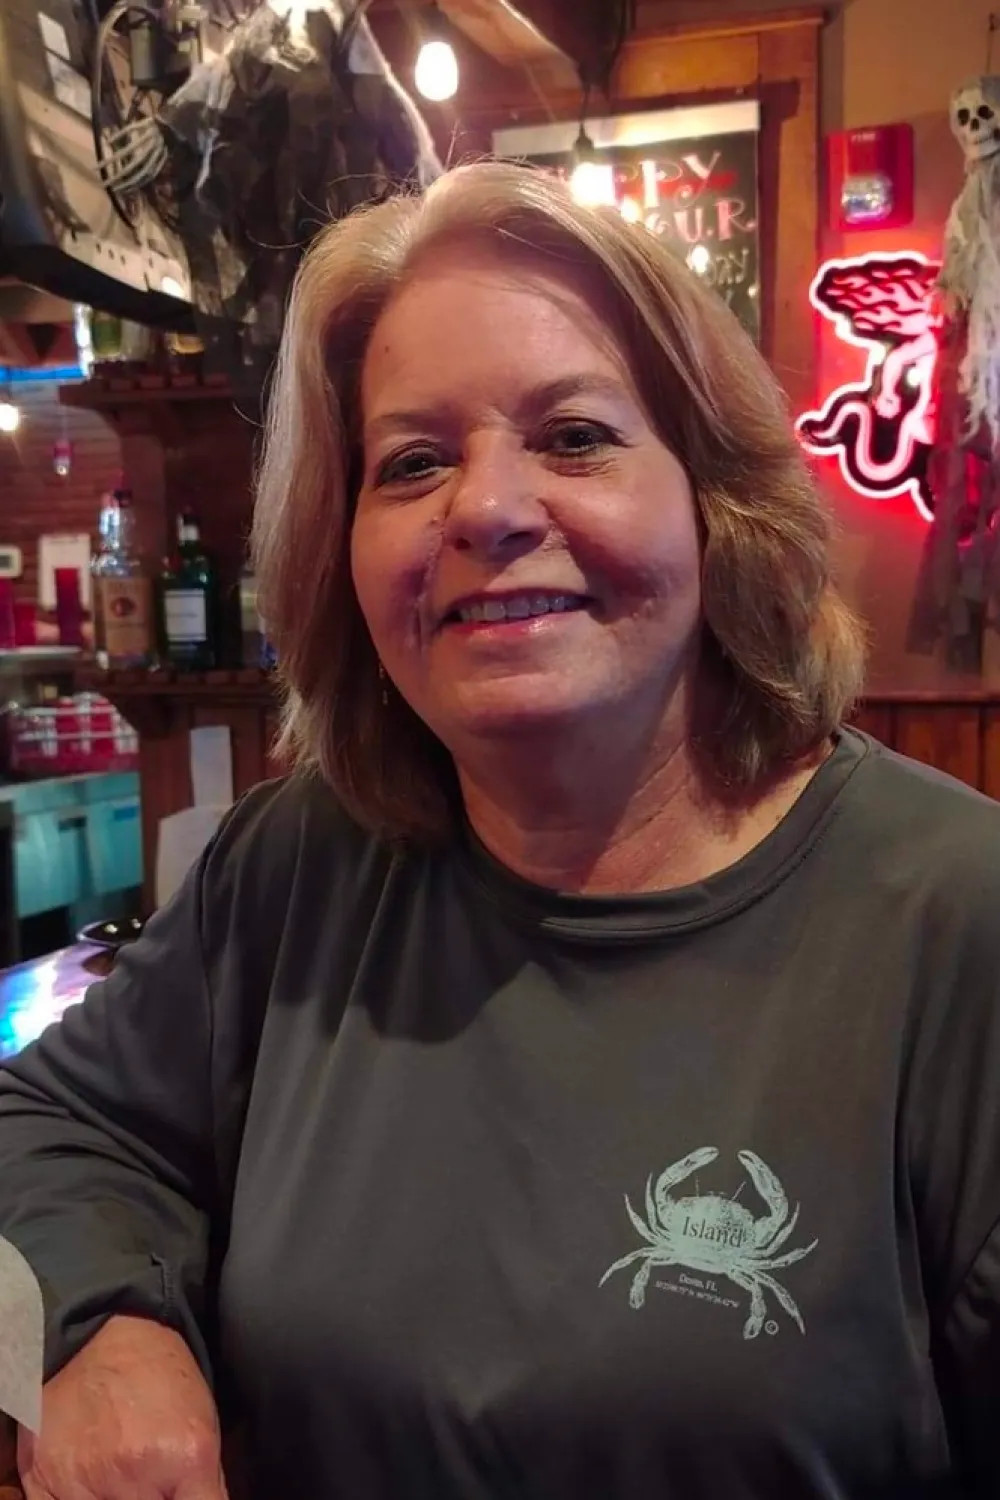
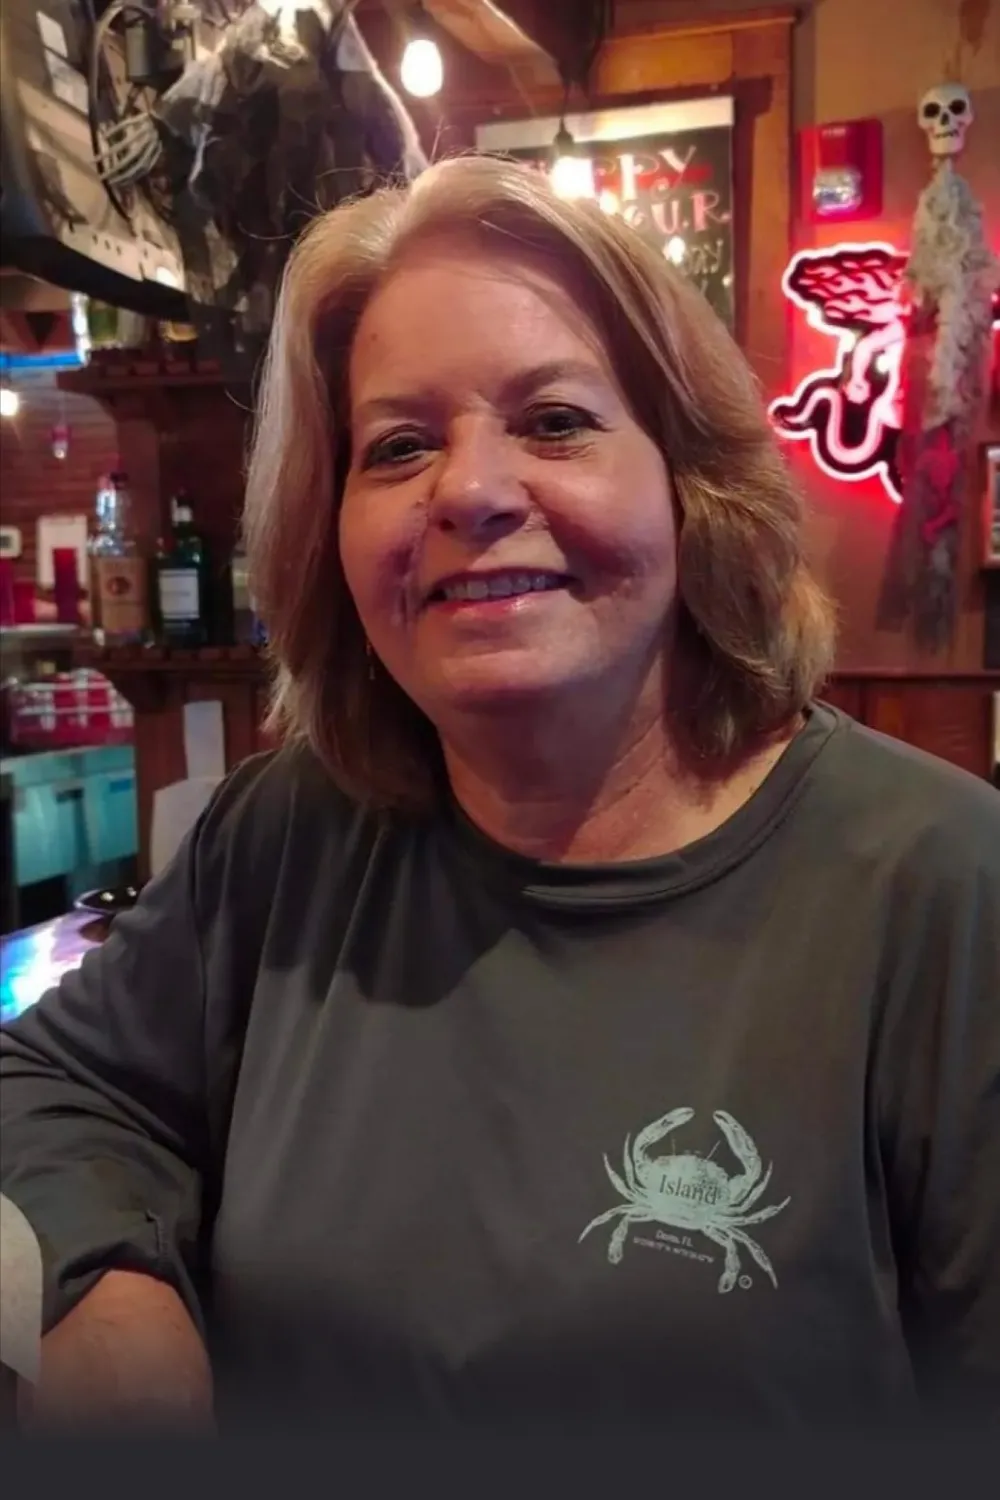
Tighten hero, ratings, faq copy and refresh Lisa portrait
Hero: rebuild the headline as four shorter lines (Get a free /
online store / and win a / $5,000 Grant.) and dial the size to
clamp(40px, 5.0vw, 64px) so it stays large but fits without
clipping. Stack the CTA and consultation link in a column with
both pinned to 358px width, and revert .cta-fine to the muted
#86868b gray.

Ratings: drop the Trustpilot card to match
sellvia/free-ecommerce-store-plus-amazon-package, refresh
Sitejabber to 924 reviews, Facebook to 516 reviews, and bump G2
from 4.7 to 4.8. Switch the desktop grid from four columns to
three and stack to a single column on mobile.

FAQ: trim the CTA blurb to "Chance to win a \$5,000 grant for
your business upgrade. Free 14-day trial." (drops the seven
done-for-you assets line).

Replace social/lisa.webp with the updated Hero/Lisa.webp upload.

diff --git a/index.html b/index.html
@@ -1461,7 +1461,7 @@ section { padding: 120px 24px; }
   max-width: var(--max);
   margin: 0 auto;
   display: grid;
-  grid-template-columns: repeat(4,1fr);
+  grid-template-columns: repeat(3,1fr);
   gap: 0;
   border-radius: 20px;
   overflow: hidden;
@@ -1481,9 +1481,8 @@ section { padding: 120px 24px; }
 .rat-score { font-size: 56px; font-weight: 700; color: #fff; letter-spacing: -0.03em; }
 .rat-count { font-size: 17px; color: rgba(255,255,255,0.4); margin-top: 8px; }
 @media(max-width:680px) {
-  .ratings-inner { grid-template-columns: 1fr 1fr; }
-  .rat-card:nth-child(3) { border-left: none; }
-  .rat-card:nth-child(n+3) { border-top: 1px solid rgba(255,255,255,0.08); }
+  .ratings-inner { grid-template-columns: 1fr; }
+  .rat-card + .rat-card { border-left: none; border-top: 1px solid rgba(255,255,255,0.08); }
 }
 
 /* ════ TESTIMONIALS ════ */
@@ -2415,8 +2414,8 @@ height="0" width="0" style="display:none;visibility:hidden"></iframe></noscript>
 .hero--devin-v2 .copy { color: white; padding-right: 20px; position: relative; }
 .hero--devin-v2 .copy h1 {
   font-family: var(--font-sans); font-weight: 700;
-  font-size: clamp(48px, 5.6vw, 76px);
-  letter-spacing: -0.04em; line-height: 1.02;
+  font-size: clamp(40px, 5.0vw, 64px);
+  letter-spacing: -0.04em; line-height: 1.05;
   margin: 0 0 28px; color: #fff; text-wrap: balance;
 }
 .hero--devin-v2 .copy h1 .blue { color: #fff; font-weight: 700; }
@@ -2445,13 +2444,13 @@ height="0" width="0" style="display:none;visibility:hidden"></iframe></noscript>
    .actions as a sibling — same pattern as the reference's hero-fine. */
 .hero--devin-v2 .actions {
   display: flex;
-  align-items: center;
-  gap: 26px;
-  /* No flex-wrap on desktop — the link sits to the right of the button on the same row */
+  flex-direction: column;
+  align-items: flex-start;
+  gap: 16px;
 }
 .hero--devin-v2 .cta-fine {
   font-size: 13px;
-  color: #ffffff;
+  color: #86868b;
   letter-spacing: -0.005em;
   margin: 20px 0 0;
   width: 358px;
@@ -2478,10 +2477,13 @@ height="0" width="0" style="display:none;visibility:hidden"></iframe></noscript>
 .hero--devin-v2 .cta-link {
   display: inline-flex;
   align-items: center;
+  justify-content: center;
   gap: 6px;
   padding: 0;
   background: none;
   border: none;
+  width: 358px;
+  max-width: 100%;
   font-family: var(--font-sans);
   font-size: 17px;
   font-weight: 500;
@@ -2626,8 +2628,10 @@ height="0" width="0" style="display:none;visibility:hidden"></iframe></noscript>
         <span class="limited-text">LIMITED TIME ·<br class="m-only-br"> SMALL BUSINESS GRANT ACCESS</span>
       </div>
       <h1>
-        Get a <span class="blue">free<br>online store</span><br>
-        and win a <span class="amber">$5,000<br>Business Grant</span>.
+        Get a <span class="blue">free</span><br>
+        <span class="blue">online store</span><br>
+        and win a<br>
+        <span class="amber">$5,000 Grant</span>.
       </h1>
       <p class="lede">
         Get a ready-made store, products people actually want to buy, and a real
@@ -4460,10 +4464,9 @@ height="0" width="0" style="display:none;visibility:hidden"></iframe></noscript>
     </div>
   </div>
   <div class="ratings-inner">
-    <div class="rat-card appear d1"><img class="rat-logo" src="img/ratings/sitejabber.svg" alt="Sitejabber" loading="lazy"><div class="rat-stars">★★★★★</div><div class="rat-score">4.8</div><div class="rat-count">824 reviews</div></div>
-    <div class="rat-card appear d2"><img class="rat-logo" src="img/ratings/trustpilot.svg" alt="Trustpilot" loading="lazy"><div class="rat-stars">★★★★★</div><div class="rat-score">4.6</div><div class="rat-count">1,115 reviews</div></div>
-    <div class="rat-card appear d3"><img class="rat-logo" src="img/ratings/facebook.svg" alt="Facebook" loading="lazy"><div class="rat-stars">★★★★★</div><div class="rat-score">96%</div><div class="rat-count">510 reviews</div></div>
-    <div class="rat-card appear d4"><img class="rat-logo" src="img/ratings/g2.svg" alt="G2" loading="lazy"><div class="rat-stars">★★★★★</div><div class="rat-score">4.7</div><div class="rat-count">249 reviews</div></div>
+    <div class="rat-card appear d1"><img class="rat-logo" src="img/ratings/sitejabber.svg" alt="Sitejabber" loading="lazy"><div class="rat-stars">★★★★★</div><div class="rat-score">4.8</div><div class="rat-count">924 reviews</div></div>
+    <div class="rat-card appear d2"><img class="rat-logo" src="img/ratings/facebook.svg" alt="Facebook" loading="lazy"><div class="rat-stars">★★★★★</div><div class="rat-score">96%</div><div class="rat-count">516 reviews</div></div>
+    <div class="rat-card appear d3"><img class="rat-logo" src="img/ratings/g2.svg" alt="G2" loading="lazy"><div class="rat-stars">★★★★★</div><div class="rat-score">4.8</div><div class="rat-count">249 reviews</div></div>
   </div>
 </div>
 
@@ -4600,7 +4603,7 @@ height="0" width="0" style="display:none;visibility:hidden"></iframe></noscript>
       <div>
         <div class="faq-cta appear d2">
           <h3>Claim your free store + $5,000 Business Grant.</h3>
-          <p>Chance to win a $5,000 grant for your business upgrade, plus seven done-for-you assets at no cost. Free 14-day trial.</p>
+          <p>Chance to win a $5,000 grant for your business upgrade. Free 14-day trial.</p>
           <a href="https://sellvia.com/checkout/?product=custom&type_custom=free_basic_hosting" class="btn btn-filled" style="height:60px;font-size:17px">Get my free store + $5,000 Grant</a>
           <p class="faq-cta-fine">Get started in less than 60 seconds • Cancel anytime</p>
           <div style="margin-top:20px;padding-top:20px;border-top:1px solid rgba(255,255,255,0.08);display:flex;align-items:center;justify-content:center;gap:8px">